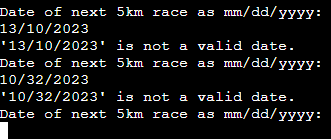
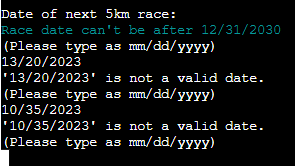
Fix typos in README and in screengrabs

diff --git a/README.md b/README.md
@@ -3,19 +3,19 @@
 ## Purpose of the Project
 
 The purpose of this app is to allow a running trainer to access their list of clients.
-The user, i.e. the trainer, can add new clients, view clients, edit clients' information and delete clients, as needed. There are also automated calculations done on the input data to determine the training needs of the client which will assist the trainer in making a training plan. It is assumed that a new client has previous running experience and is hiring this trainer to improve their running time, therefore all inputs must be completed.
+The user, i.e. the trainer, can add new clients, view clients, edit clients' information and delete clients, as needed. There are also automated calculations done on the input data to determine the training needs of the client which will assist the trainer in making an effective training plan. It is assumed that a new client has previous running experience and is hiring this trainer to help them improve their running time, therefore all inputs must be completed.
 
-<img srce='/docs/app.png'>
+<img src='/docs/app.png'>
 
 - Live site: https://running-client-list-cbd69015c7bc.herokuapp.com/
 - Googlesheets link: https://docs.google.com/spreadsheets/d/17M0THf5HOCmTCS_M8pkf5eGf52iwv_LcsSCPS_9-gNo/edit?usp=sharing
 
 ## User Stories
 
-1. As a user, a running trainer, I want to be able to add my client's data and have the program give me automated outputs on how many days are left until the client's next race, and what their current and goal race paces are.
-2. As a user, I want to be able to view my client's information on searching with their email address.
-3. As a user, I want to be able to edit any of the client's data.
-4. As a user, I want to be able to delete a client from the client list if I need to.
+1. As a user, a running trainer, I want to be able to add my new client's data and have the program give me automated outputs on how many days are left until the client's next race, and what their current and goal race paces are.
+2. As a user, I want to be able to view my clients' information by searching with their email address.
+3. As a user, I want to be able to edit any of my clients' data.
+4. As a user, I want to be able to delete any client from the client list, if I need to.
 
 ## Features
 
@@ -29,13 +29,13 @@ As demonstated in the workflow image above, this app has five main features:
 - a valid email address, which doesn't already exist in the client list
 - the client's age, with the minimum age being 18 and the maximum being 100
 - the race distance the client is training for
-- the client's current Personal Best (PB) time for the race distance
+- the client's current Personal Best (PB) time for the selected race distance
 - the date of the client's next race, in mm/dd/yyyy format and which must be a future date and not beyond the limit of 12/31/2030
 - the time the client wants to complete this race in
 
 The data will be displayed once all the input sections have been correctly completed, and the user will be shown how many days there are until the client's next race, as well as the client's current race pace and their goal race pace.
 
-2. Display a client - the user can search for an existing client and their data will be displayed. Originally, the client's last name was going to be used to search but during the development of the app this element was modified to use the client's email instead, as that is a unique datum and will avoid any data retrieval issues if multiple clients with the same last name exist. Before the client's data is displayed, the up-to-date number of days until the race will be calculated and the client's data will be updated in the database.
+2. Display a client - the user can search for an existing client and their data will be displayed. Originally, the client's last name was going to be used to search but during the development of the app this element was modified to use the client's email instead, as that is a unique datum and will avoid any data retrieval issues if multiple clients with the same last name exist in the client list. Before the client's data is displayed, the up-to-date number of days until the race will be calculated and the client's data will be updated in the database.
 
 3. Edit a client - the user can search for a client using their email address. If the client exists the user will be given the option to edit any of the inputs or to return to the Main Menu. If the user wants to edit the race distance, they will be asked to edit the client's PB and goal time too. The current race pace and goal race pace will be updated accordingly. If the race date is changed, the new number of days until the race will be calculated and displayed.
 
@@ -51,7 +51,9 @@ The data will be displayed once all the input sections have been correctly compl
 
 - I would like to improve the pb and goal time inputs to include "ss" to make their pace times more accurate.
 
-- During testing it became apparent that if the race date falls into the past naturally, and then the user selects to view the client, the countdown will be diplayed as a positive integer. To resolve this issue I would like to add new fuctions to deal with this scenario. would also like to remove the Days Til Race column in the Googlesheet so that if the user is viewing that, they will not see the countdown, as it may not be up-to-date.
+### Future Enhancements
+
+- During testing it became apparent that if the race date falls into the past naturally, and then the user selects to view the client, the countdown will be diplayed as a positive integer. To resolve this issue I would like to add new fuctions to deal with this scenario. I would also like to remove the Days Til Race column in the Googlesheet so that if the user is viewing that, they will not see the countdown, as it may not be up-to-date.
 
 ## Technologies
 
@@ -64,7 +66,7 @@ The data will be displayed once all the input sections have been correctly compl
 - Git - version control
 - VSCode - as the program editor
 - Black - Python auto formatter installed in VSCode
-- PyLint - Code analyzer installed in VSCode to test that the code follows PEP 8 style guidelines
+- PyLint - Code analyzer installed in VSCode to test that the code follows PEP8 style guidelines
 - GitHub Desktop - to commit and push changes in the app's code
 - GitHub - to store the files in a repository and to link to Heroku
 - Heroku - to deploy the app in a mock terminal
@@ -73,20 +75,20 @@ The data will be displayed once all the input sections have been correctly compl
 
 ### Modules
 
-- sys module - To access the interpreter.
-- os - To clear the terminal screen after the user selects an action. This allows for better UX by displaying the data relevant to the action and avoid excessive scrolling.
-- datetime - To format date and time inputs, and to get the current date which is used in the countdown function.
-- time - To use the sleep() function to improve UX and slow down the speed of the messages being displayed.
-- gspread - A Python API for Google Sheets which is used to access and update data stored in the 'running' sheet in the spreadsheet 'client_list'.
-- google.oauth2.service_account - To import the Credentials Class which then uses the creds.json file.
-- PyInputPlus module - For additional input validation. I came across this module while I was researching how to validate email inputs. It has many built-in features that add automatic validation to emails, integers, strings, dates, times - all of which I made use of in this app.
-- termcolor - To add color to various print statements to improve UX.
+- sys module - to access the interpreter.
+- os - to clear the terminal screen after the user selects an action. This allows for better UX by displaying the data relevant to the action and avoid excessive scrolling.
+- datetime - to format date and time inputs, and to get the current date which is used in the countdown function.
+- time - to use the sleep() function to improve UX and slow down the speed of the messages being displayed.
+- gspread - a Python API for Google Sheets which is used to access and update data stored in the 'running' sheet in the spreadsheet 'client_list'.
+- google.oauth2.service_account - to import the Credentials Class which then uses the creds.json file.
+- PyInputPlus module - for additional input validation. I came across this module while I was researching how to validate email inputs. It has many built-in features that add automatic validation to emails, integers, strings, dates, times - all of which I made use of in this app.
+- termcolor - to add color to various print statements to improve UX.
 
 ## Testing
 
 ### Code Validation
 
-- PyLint - A static code analyzer installed in VSCode. It highlights problems in the code and gives suggestions on how best to style the code so as to follow the PEP 8 recommended style for Python - no errors found
+- PyLint - A static code analyzer installed in VSCode. It highlights problems in the code and gives suggestions on how best to style the code so as to follow the PEP8 style recommendations for Python - no errors found
 - CI Python Linter https://pep8ci.herokuapp.com/ - no errors found
 
 ### Test Cases
@@ -194,7 +196,7 @@ The user cannot input a number below 18 or above 100. They will be warned about 
 
 ##### Date of next race
 
-22. The user is finally asked to input the date of their client's next race. The user must follow the format mm/dd/yyyy for the date to be accepted as valid.
+22. The user is finally asked to input the date of their client's next race. The user must follow the format mm/dd/yyyy for the date to be accepted as valid. The user is warned that the date cannot be after 12/31/2030.
 
 <img src='/docs/action1/date.png' >
 
